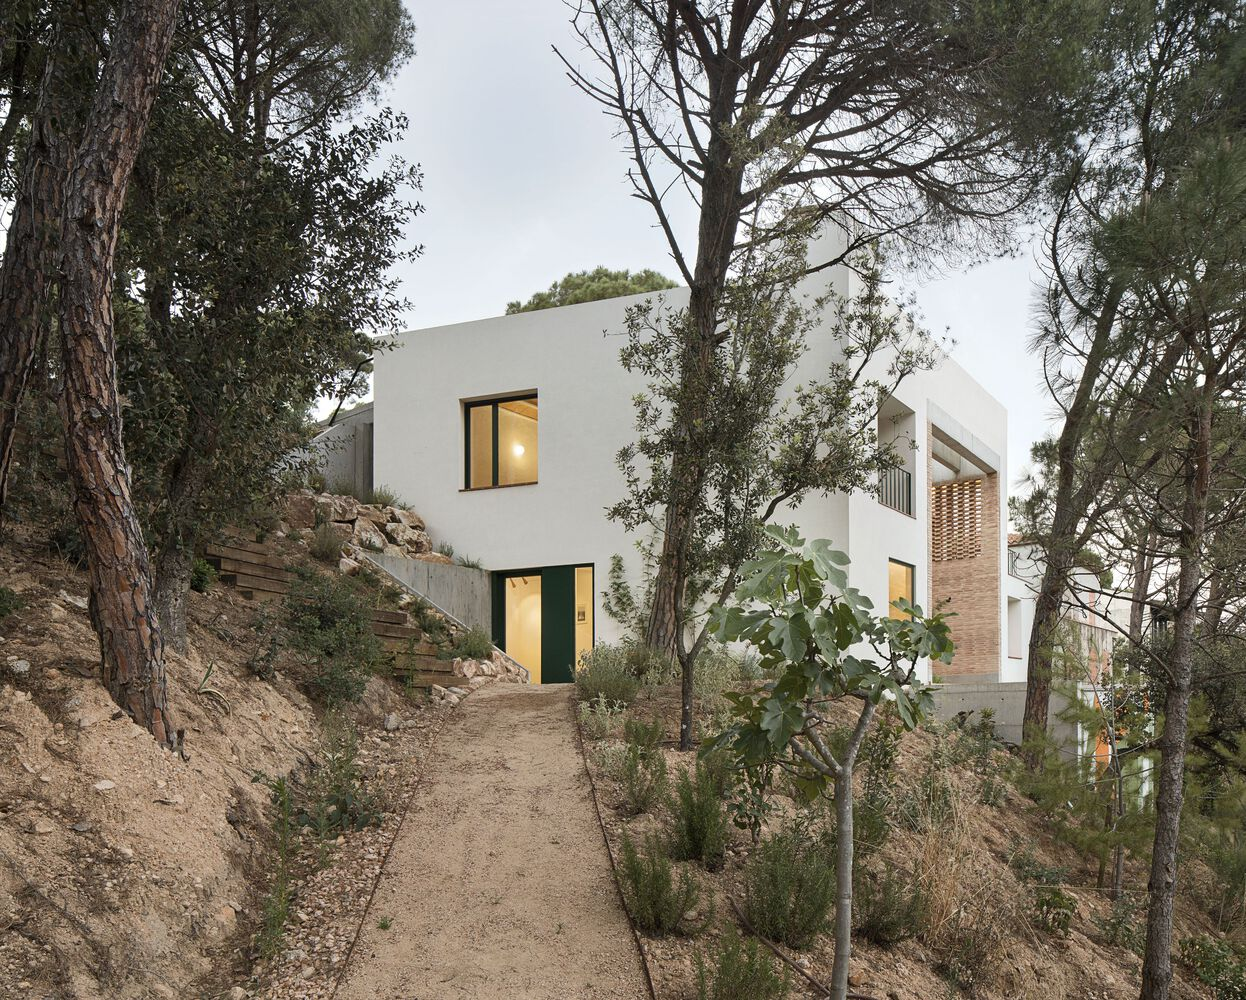
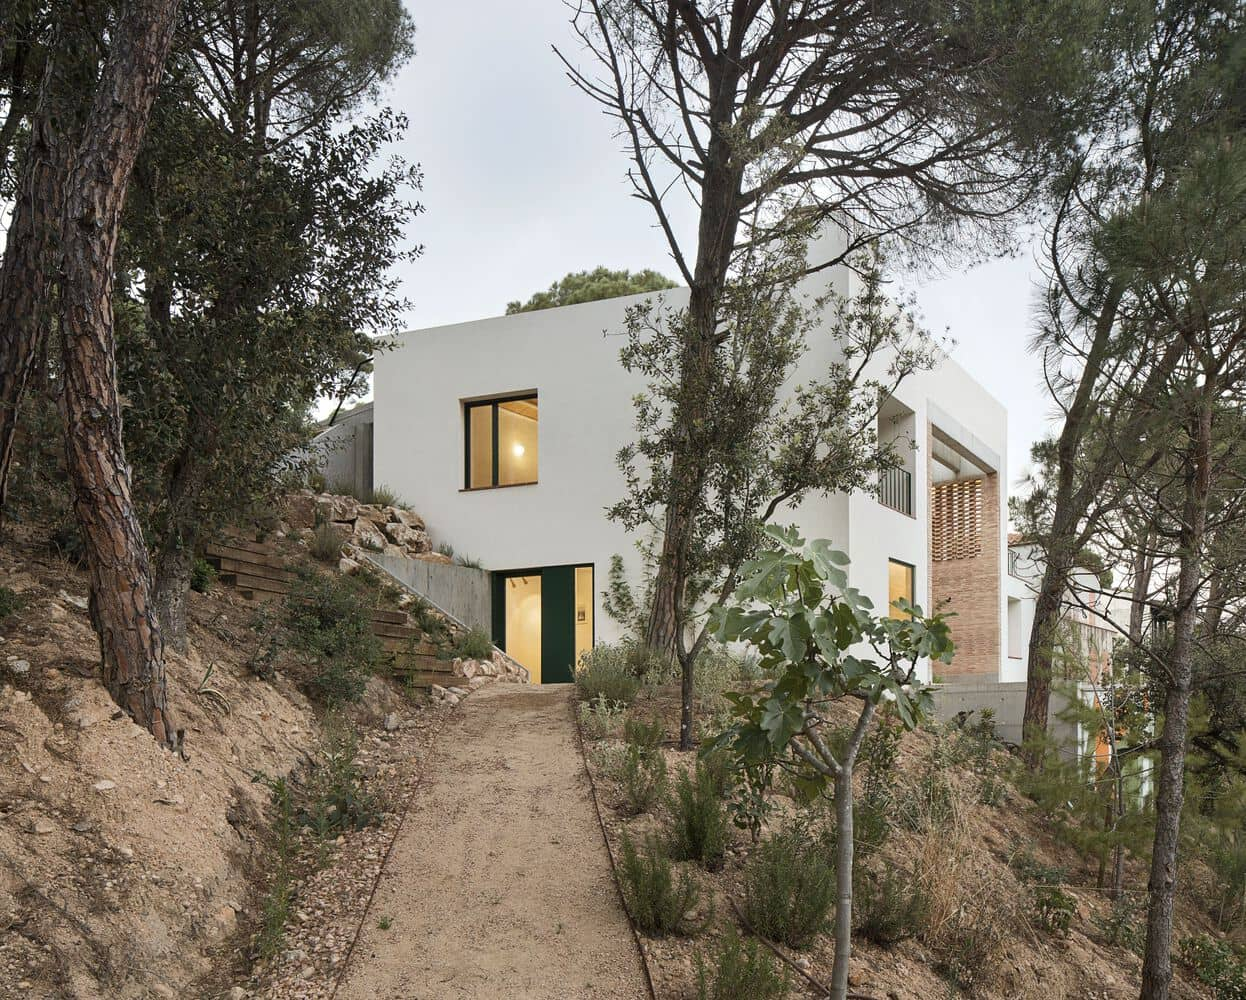
compressing photos and adding alts to imgs

diff --git a/pages/gallery.html b/pages/gallery.html
@@ -70,40 +70,40 @@
         <div class="gallery__main--container">
             <!-- Imagenes de la galeria -->
             <div class="gallery__img--container">
-                <img class="gallery__img" src="../img/Proyecto1/proyecto1-2.jpg" alt="">
+                <img class="gallery__img" src="../img/Proyecto1/proyecto1-2.jpg" alt="Casa blanca con pinturas de colores">
             </div>
             <div class="gallery__img--container">
-                <img class="gallery__img" src="../img/Proyecto2/proyecto2-1.jpg" alt="">
+                <img class="gallery__img" src="../img/Proyecto2/proyecto2-1.jpg" alt="Casa moderna en el bosque">
             </div>
             <div class="gallery__img--container">
-                <img class="gallery__img" src="../img/Proyecto2/proyecto2-1.jpg" alt="">
+                <img class="gallery__img" src="../img/Proyecto2/proyecto2-1.jpg" alt="Casa moderna en el bosque">
             </div>
             <div class="gallery__img--container">
-                <img class="gallery__img" src="../img/Proyecto3/proyecto3-1.jpg" alt="">
+                <img class="gallery__img" src="../img/Proyecto3/proyecto3-1.jpg" alt="Casa estilo bunker en el bosque">
             </div>
             <div class="gallery__img--container">
-                <img class="gallery__img" src="../img/Proyecto4/proyecto4-1.jpg" alt="">
+                <img class="gallery__img" src="../img/Proyecto4/proyecto4-1.jpg" alt="Casa con multiples vistas">
             </div>
             <div class="gallery__img--container">
-                <img class="gallery__img" src="../img/Proyecto5/proyecto5-1.jpg" alt="">
+                <img class="gallery__img" src="../img/Proyecto5/proyecto5-1.jpg" alt="Casa en colina con nubes de fondo">
             </div>
             <div class="gallery__img--container">
-                <img class="gallery__img" src="../img/Proyecto3/proyecto3-2.jpg" alt="">
+                <img class="gallery__img" src="../img/Proyecto3/proyecto3-2.jpg" alt="Casa estilo bunker en el bosque">
             </div>
             <div class="gallery__img--container">
-                <img class="gallery__img" src="../img/Proyecto1/proyecto1-2.jpg" alt="">
+                <img class="gallery__img" src="../img/Proyecto1/proyecto1-2.jpg" alt="Casa blanca con pinturas de colores">
             </div>
             <div class="gallery__img--container">
-                <img class="gallery__img" src="../img/Proyecto1/proyecto1-2.jpg" alt="">
+                <img class="gallery__img" src="../img/Proyecto1/proyecto1-2.jpg" alt="Casa blanca con pinturas de colores">
             </div>
             <div class="gallery__img--container">
-                <img class="gallery__img" src="../img/Proyecto2/proyecto2-1.jpg" alt="">
+                <img class="gallery__img" src="../img/Proyecto2/proyecto2-1.jpg" alt="Casa moderna en el bosque">
             </div>
             <div class="gallery__img--container">
-                <img class="gallery__img" src="../img/Proyecto3/proyecto3-1.jpg" alt="">
+                <img class="gallery__img" src="../img/Proyecto3/proyecto3-1.jpg" alt="Casa estilo bunker en el bosque">
             </div>
             <div class="gallery__img--container">
-                <img class="gallery__img" src="../img/Proyecto3/proyecto3-2.jpg" alt="">
+                <img class="gallery__img" src="../img/Proyecto3/proyecto3-2.jpg" alt="Casa estilo bunker en el bosque">
             </div>
         </div>
     </main>

diff --git a/pages/projects.html b/pages/projects.html
@@ -68,7 +68,7 @@
                 <!-- Lista de proyectos -->
                 <li class="main__li--projects">
                     <a href="">
-                        <img class="main__img--projects" src="../img/Proyecto1/proyecto1-2.jpg" alt="">
+                        <img class="main__img--projects" src="../img/Proyecto1/proyecto1-2.jpg" alt="Casa blanca de frente">
                     </a>
                     <div class="main__projects--texts">
                         <p class="main__projects--title">Lorem, ipsum dolor.</p>
@@ -79,7 +79,7 @@
                 </li>
                 <li class="main__li--projects">
                     <a href="">
-                        <img class="main__img--projects" src="../img/Proyecto2/proyecto2-3.jpg" alt="">
+                        <img class="main__img--projects" src="../img/Proyecto2/proyecto2-3.jpg" alt="Deck de madera de una casa">
                     </a>
                     <div class="main__projects--texts">
                         <p class="main__projects--title">Lorem, ipsum dolor.</p>
@@ -90,7 +90,7 @@
                 </li>
                 <li class="main__li--projects">
                     <a href="">
-                        <img class="main__img--projects" src="../img/Proyecto3/proyecto3-1.jpg" alt="">
+                        <img class="main__img--projects" src="../img/Proyecto3/proyecto3-1.jpg" alt="Casa estilo bunker en bosque">
                     </a>
                     <div class="main__projects--texts">
                         <p class="main__projects--title">Lorem, ipsum dolor.</p>
@@ -101,7 +101,7 @@
                 </li>
                 <li class="main__li--projects">
                     <a href="">
-                        <img class="main__img--projects" src="../img/Proyecto4/proyecto4-1.jpg" alt="">
+                        <img class="main__img--projects" src="../img/Proyecto4/proyecto4-1.jpg" alt="Casa con multiples vistas">
                     </a>
                     <div class="main__projects--texts">
                         <p class="main__projects--title">Lorem, ipsum dolor.</p>
@@ -112,7 +112,7 @@
                 </li>
                 <li class="main__li--projects">
                     <a href="">
-                        <img class="main__img--projects" src="../img/Proyecto5/proyecto5-1.jpg" alt="">
+                        <img class="main__img--projects" src="../img/Proyecto5/proyecto5-1.jpg" alt="Casa en colina con nubes de fondo">
                     </a>
                     <div class="main__projects--texts">
                         <p class="main__projects--title">Lorem, ipsum dolor.</p>

diff --git a/pages/about.html b/pages/about.html
@@ -68,7 +68,7 @@
         <!-- Izquierda: Imagen -->
         <section class="main__left">
             <div class="div__left">
-                <img class="main__img--about" src="../img/img_perfil.jpg" alt="">
+                <img class="main__img--about" src="../img/img_perfil.jpg" alt="Caricatura Arquitecto en blanco y negro">
             </div>
         </section>
         <!-- Derecha: Descripcion -->
